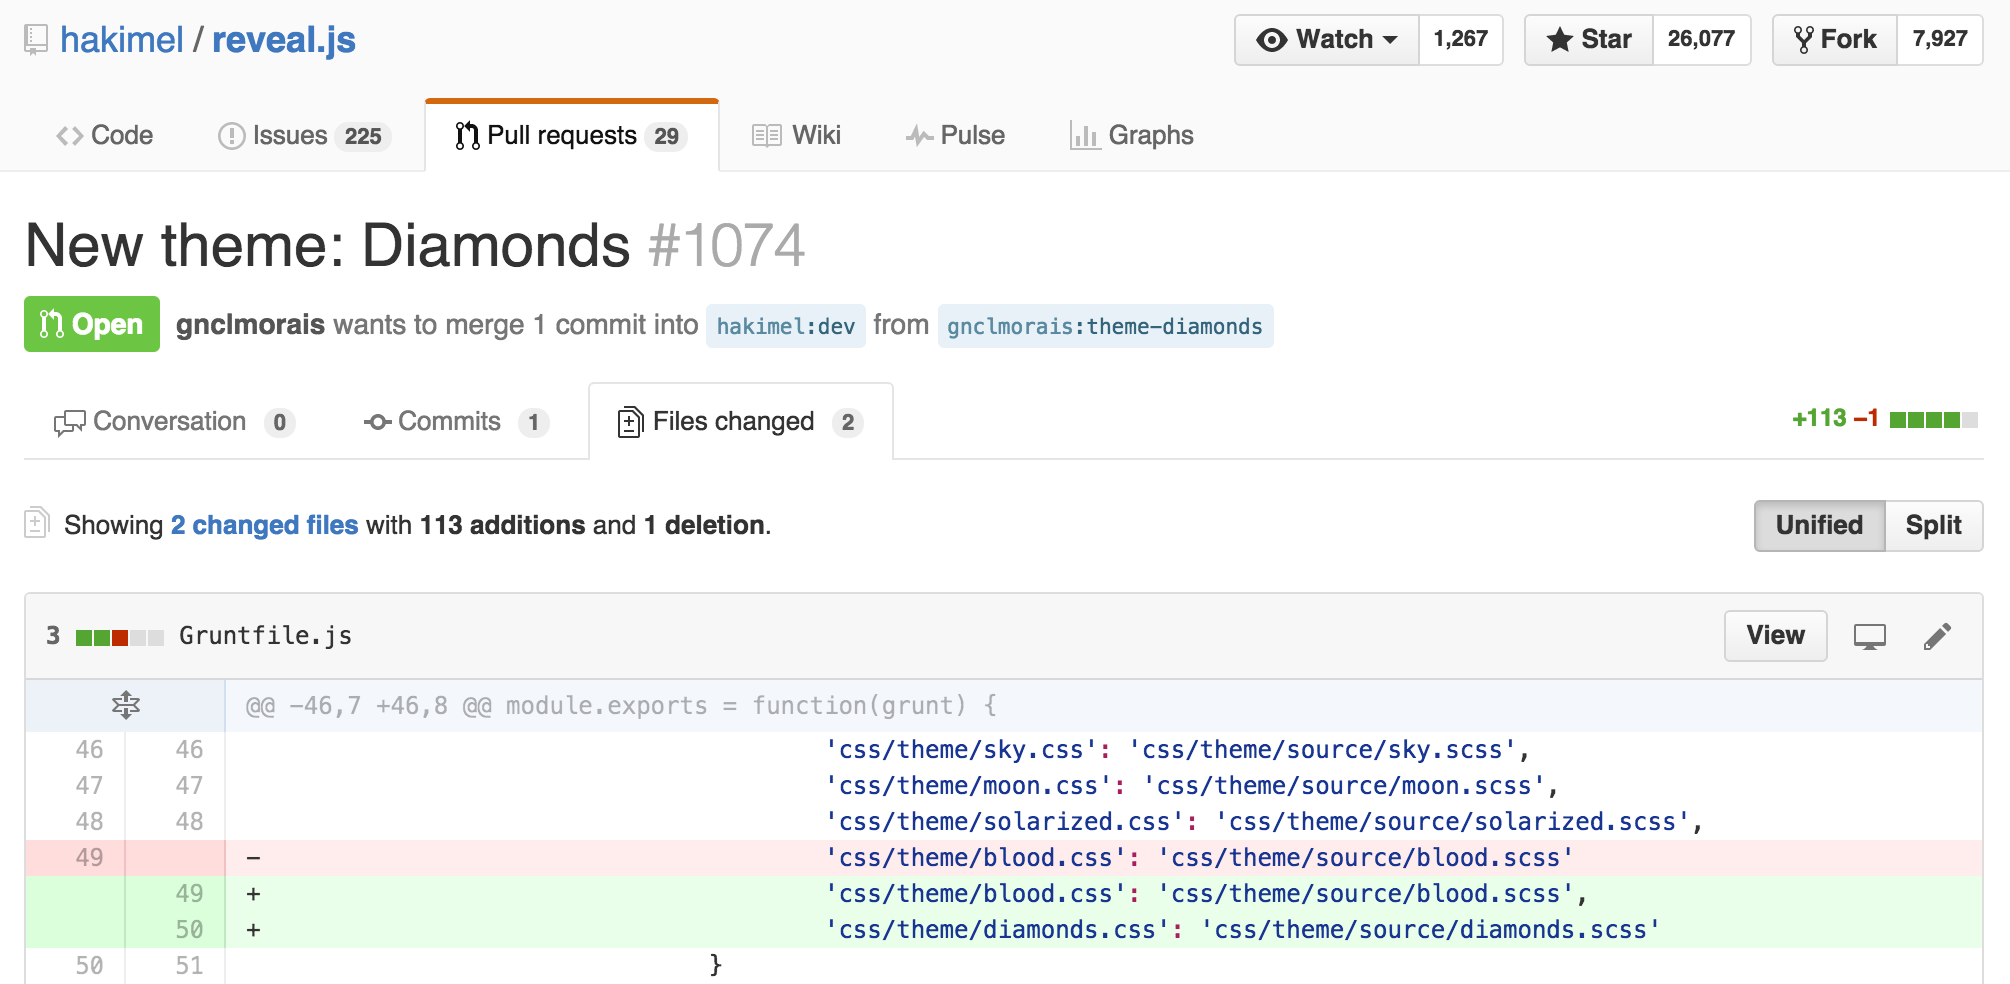
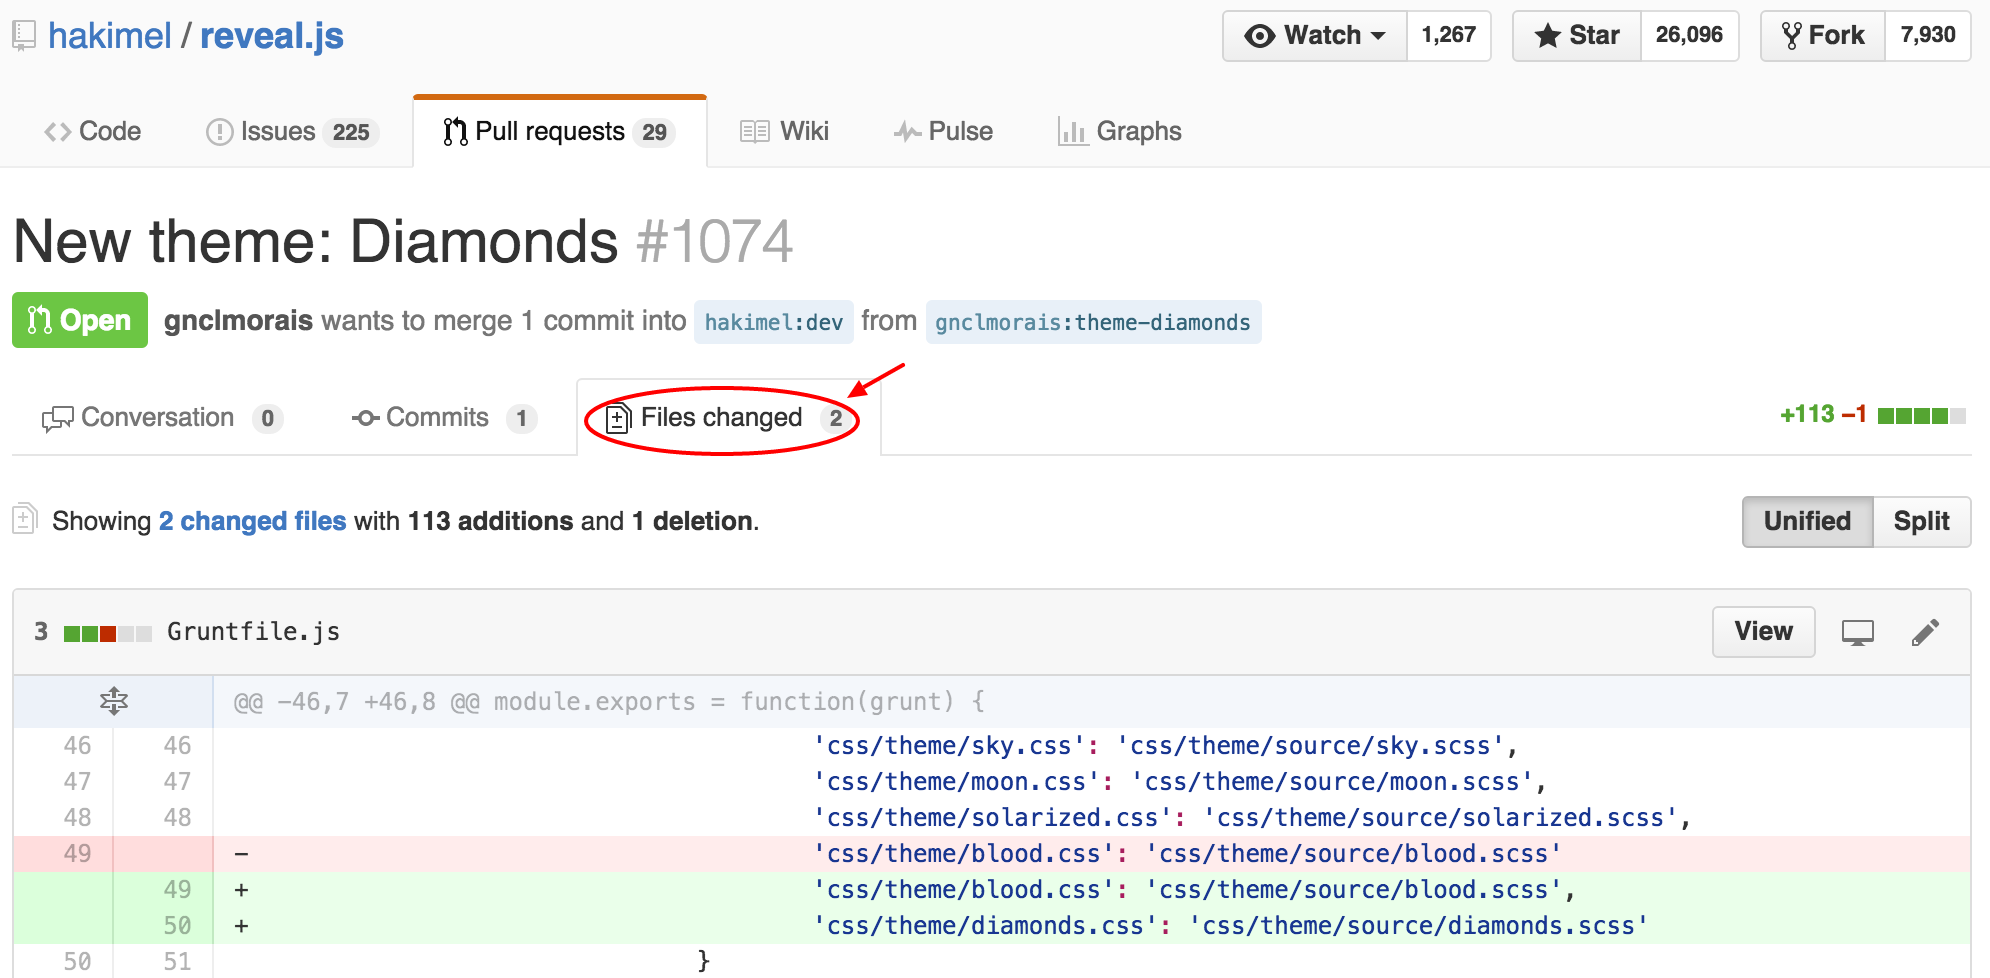
Finalize github presentation.

diff --git a/how-to-use-gitHub-to-evaluate-developers.html b/how-to-use-gitHub-to-evaluate-developers.html
@@ -81,9 +81,9 @@
             <p class="fragment"><i>Open source</i> refers to something that can be modified and shared publicly</p>
             <p class="fragment"><i>Open source software</i> is available for modification or enhancement by anyone</p>
             <ul class="fragment">
-                <li>Operating systems (Android, Linux)</li>
-                <li>Programming languages (Ruby, Swift, Java)</li>
-                <li>User applications (Firefox, OpenOffice)</li>
+                <li>Operating systems (Android)</li>
+                <li>Programming languages (Ruby, Swift)</li>
+                <li>User applications (Firefox)</li>
             </ul>
         </section>
 
@@ -120,7 +120,7 @@
 
         <section>
             <h3>Report <a target="_blank" href="https://github.com/hakimel/reveal.js/issues/1457">bugs</a></h3>
-            <img data-src="img/bug_report_via_issue_in_reveal_js_circled.png">
+            <img data-src="img/bug_report_via_issue_in_reveal_js.png">
         </section>
 
         <section>
@@ -141,12 +141,12 @@
 
         <section>
             <h3>Add a <a target="_blank" href="https://github.com/hakimel/reveal.js/pull/1074">feature</a></h3>
-            <img data-src="img/add_feature_via_pull_request_circled.png">
+            <img data-src="img/add_feature_via_pull_request.png">
         </section>
 
         <section>
             <h3>Add a <a target="_blank" href="https://github.com/hakimel/reveal.js/pull/1074/files">feature (continued)</a></h3>
-            <img data-src="img/pull_request_changes_in_reveal_js_circled.png">
+            <img data-src="img/pull_request_changes_in_reveal_js.png">
         </section>
 
         <section>
@@ -165,7 +165,7 @@
 
         <section>
             <h3>github gives them recognition from their peers (e.g. via stars)</h3>
-            <img data-src="img/reveal_js_repository_stars_circled.png">
+            <img data-src="img/reveal_js_repository_stars.png">
         </section>
 
         <section>
@@ -198,7 +198,7 @@
 
         <section>
             <h3>A sample profile</h3>
-            <img data-src="img/tenderlove_profile_circled.png">
+            <img data-src="img/tenderlove_profile.png">
         </section>
 
         <section>
@@ -213,7 +213,7 @@
 
         <section>
             <h3>Check out his <a target="_blank" href="https://github.com/tenderlove?tab=repositories">repositories</a></h3>
-            <img data-src="img/tenderlove_repositories_circled.png">
+            <img data-src="img/tenderlove_repositories.png">
         </section>
 
         <section>
